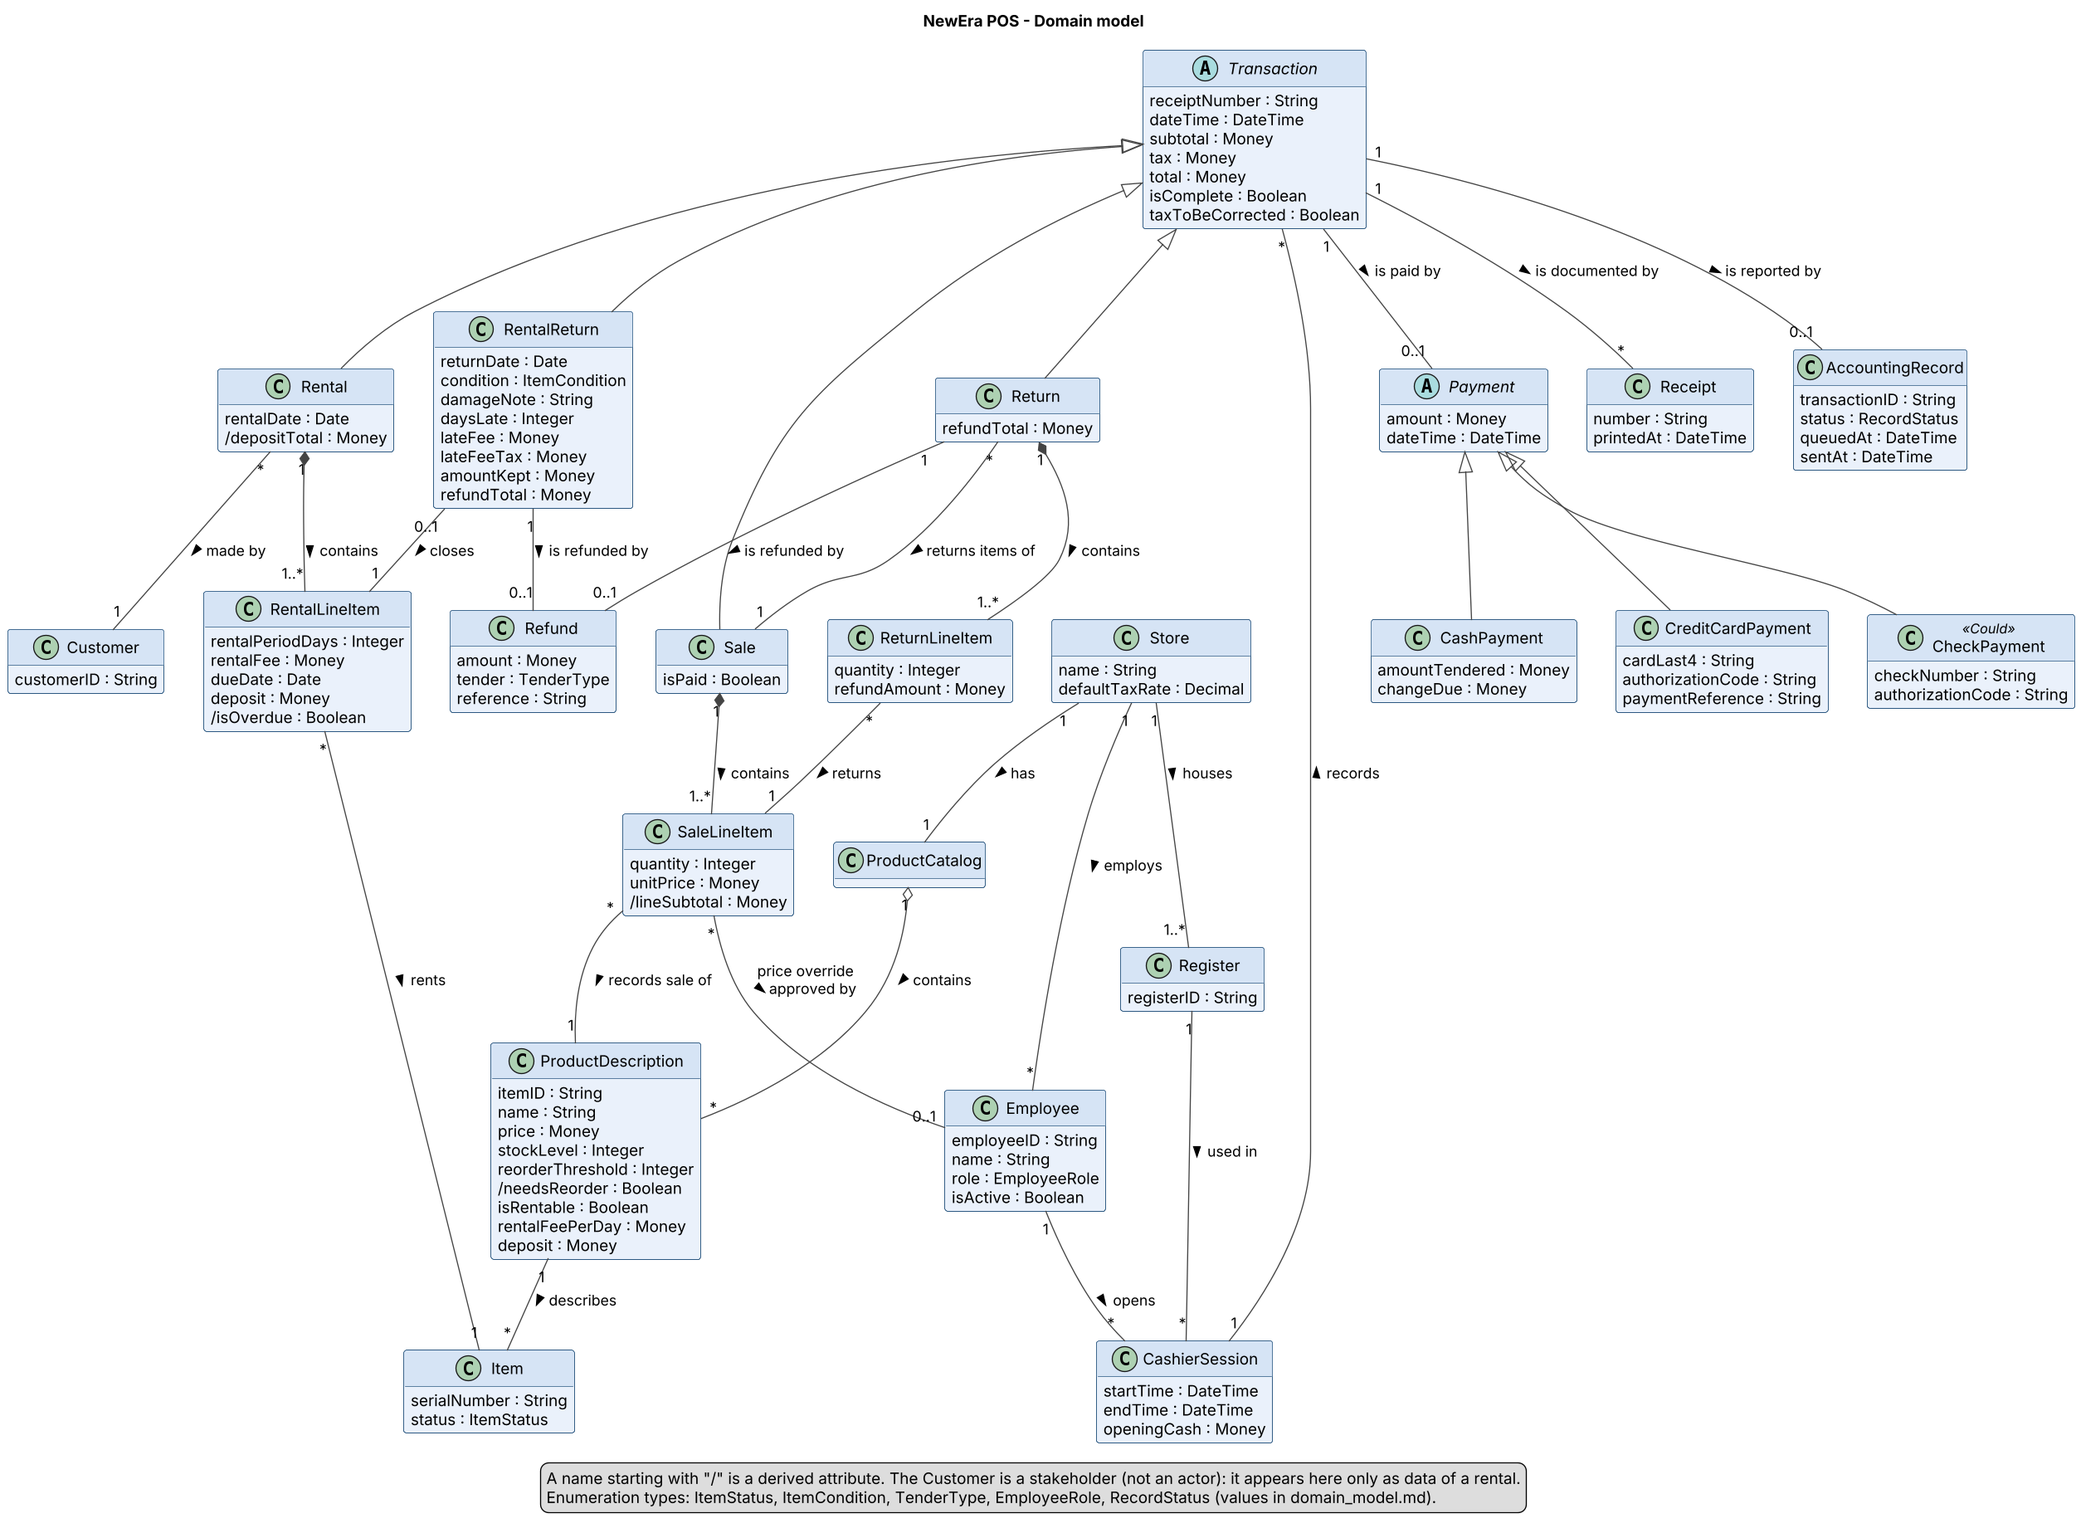
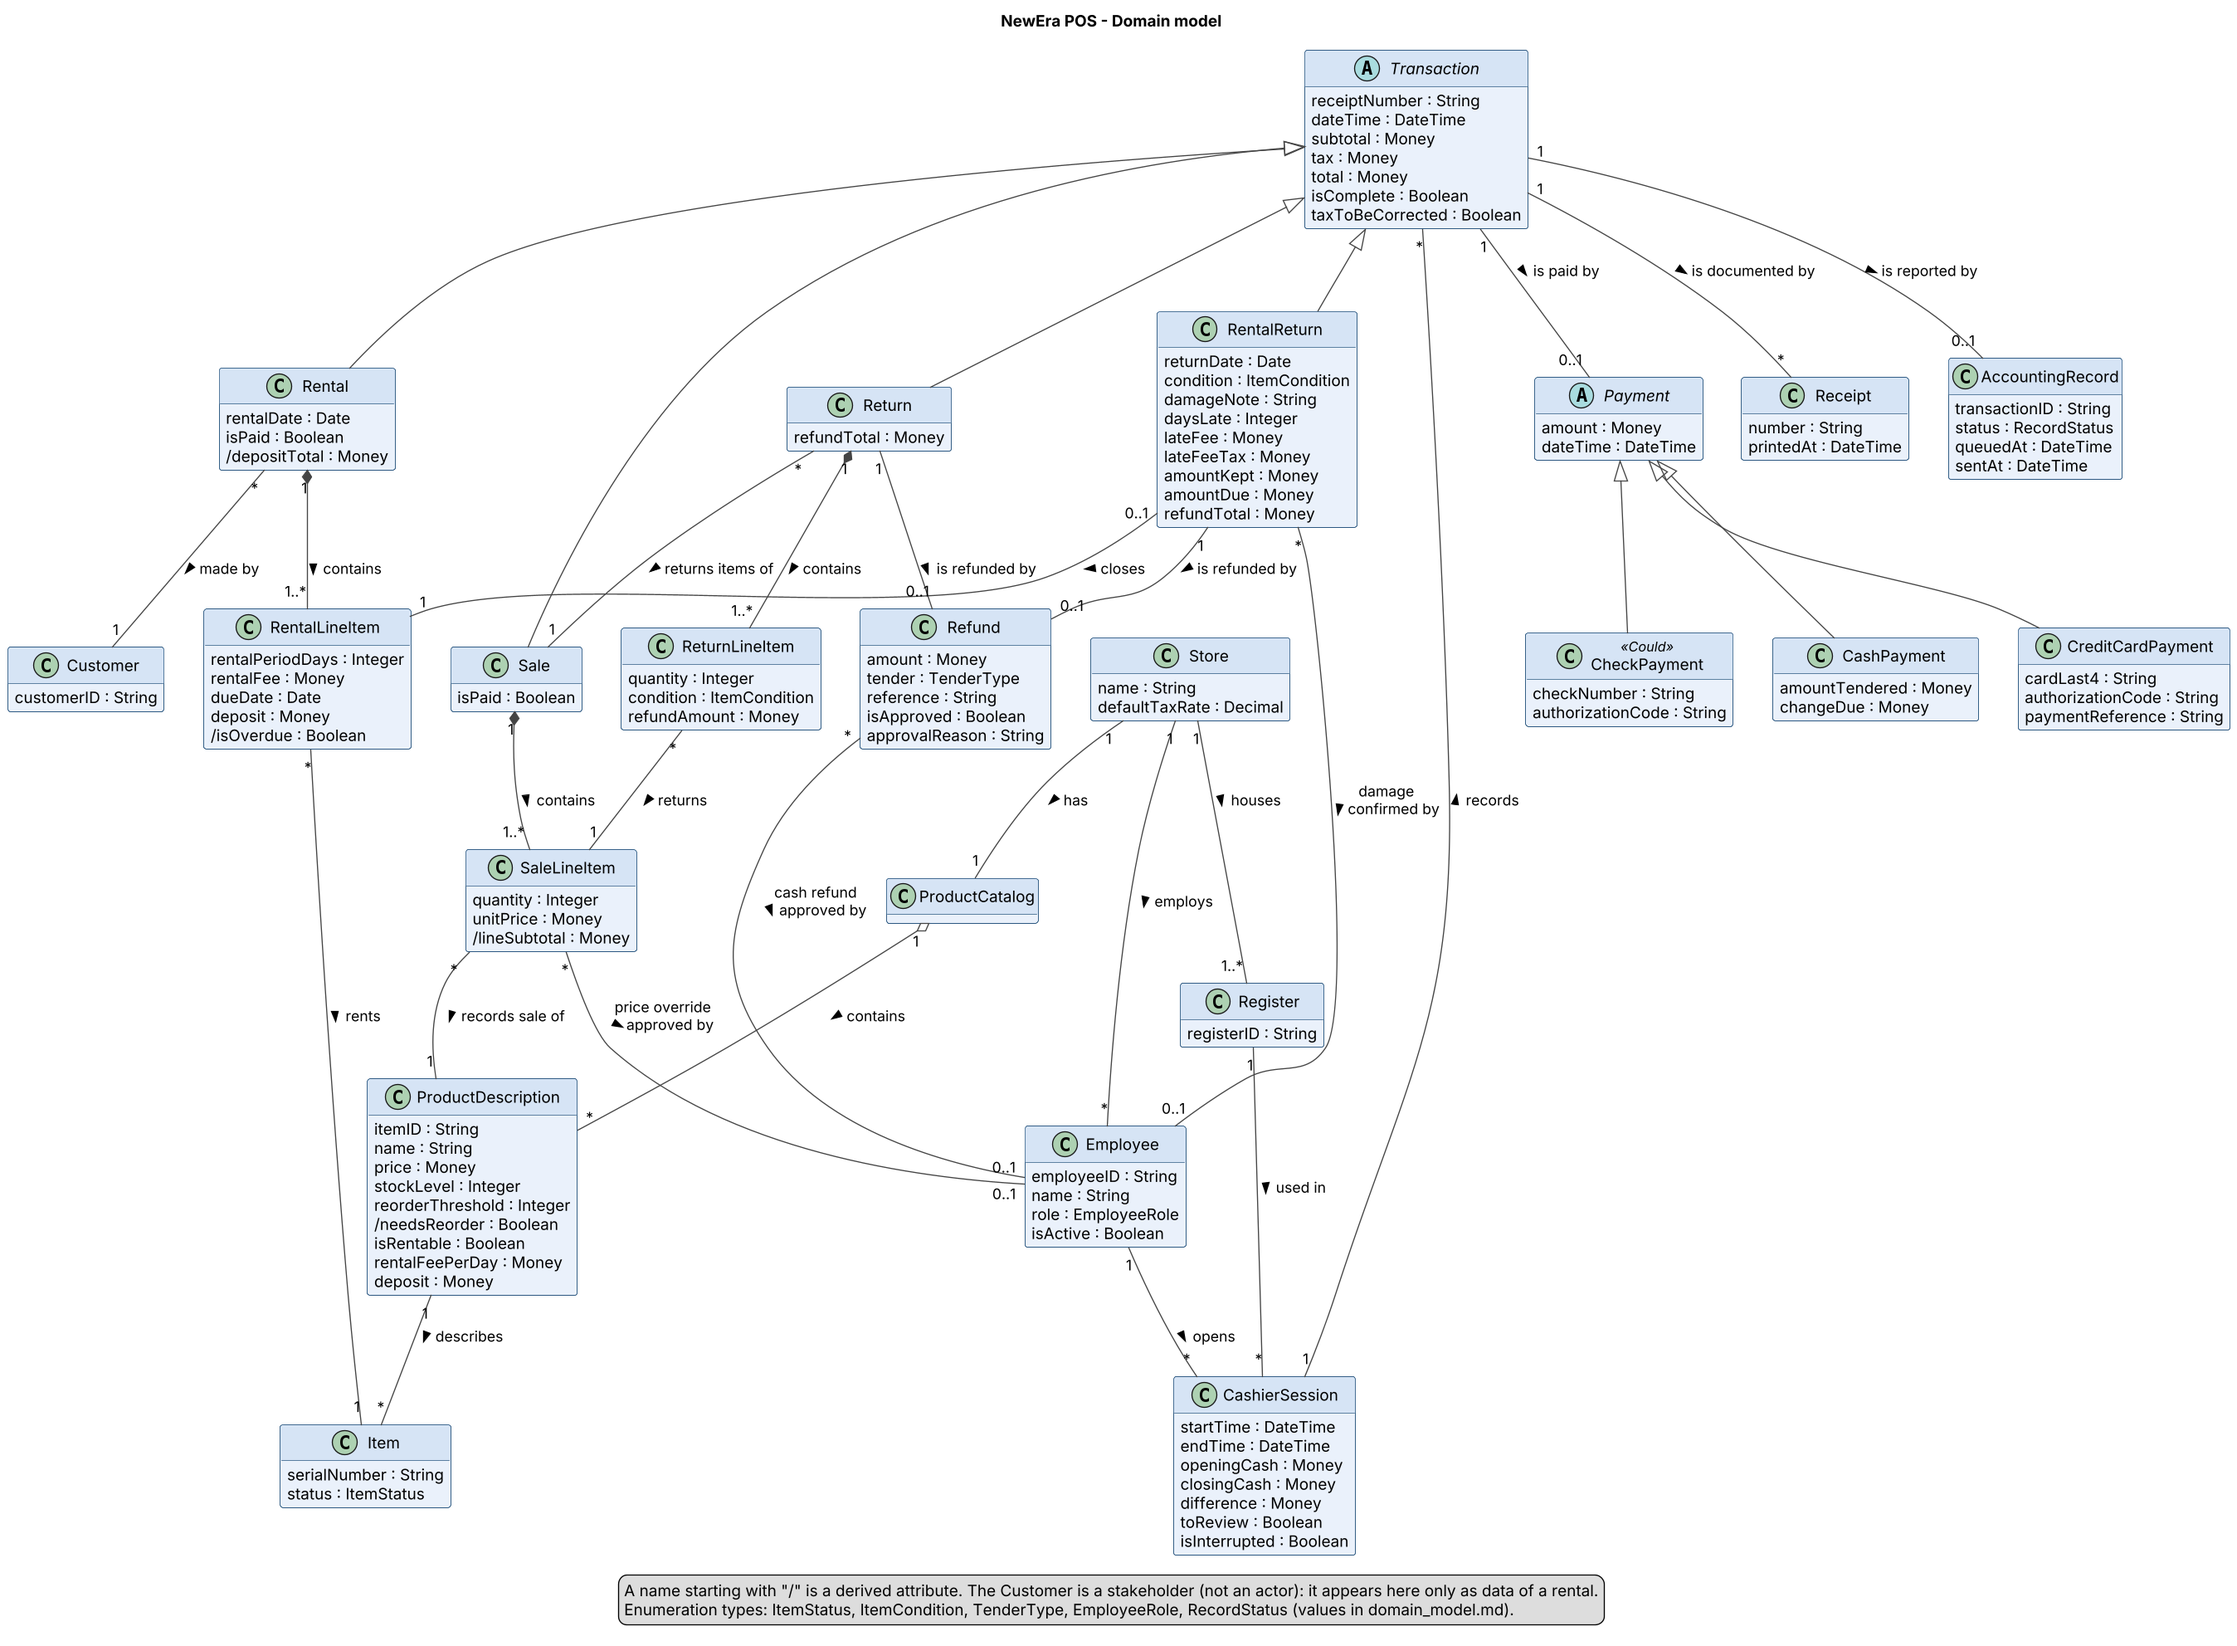
W9 - Domain model v0.5; attributes of the contracts of UC2, UC4 and UC5 added (B2)

diff --git a/docs/design/domain_model.md b/docs/design/domain_model.md
@@ -3,7 +3,7 @@
 | | |
 | --- | --- |
 | **Maintainer** | Borja Nicolás |
-| **Version** | 0.4 (draft for review; one tender for each sale or rental, BR-18) |
+| **Version** | 0.5 (draft for review; names aligned with the contracts of UC2, UC4 and UC5) |
 | **Last updated** | W09 |
 | **Part of** | Increment 2 (Design), input to the SRS section 3.5, the [system sequence diagram](system_sequence_diagrams.md) and the [operation contracts](operation_contracts.md) |
 
@@ -26,7 +26,7 @@ Names follow the glossary. The names used in the [operation contracts](operation
 | **Store** | The store that owns the registers, the catalog and the employees. | `name`, `defaultTaxRate` | BR-02 |
 | **Register** | A physical POS terminal. | `registerID` | UC4 |
 | **Employee** | A person of the HR System. The role decides what he or she may do. A cashier and a store manager are employees with a different `role`. | `employeeID`, `name`, `role`, `isActive` | UC4, BR-04, BR-13 |
-| **CashierSession** | Period in which one employee works at one register; every transaction belongs to a session. | `startTime`, `endTime`, `openingCash` | UC4, BR-13 |
+| **CashierSession** | Period in which one employee works at one register; every transaction belongs to a session. | `startTime`, `endTime`, `openingCash`, `closingCash`, `difference`, `toReview`, `isInterrupted` | UC4, BR-13 |
 | **ProductCatalog** | All product descriptions of the store. | – | glossary |
 | **ProductDescription** | A product type: what the scanned item identifier refers to. It holds the stock level; a rentable product also has its fee per day and deposit. | `itemID`, `name`, `price`, `stockLevel`, `reorderThreshold`, `/needsReorder`, `isRentable`, `rentalFeePerDay`, `deposit` | UC1, BR-03, BR-09, UC3 |
 | **Item** | One physical unit of a rentable product, identified by its serial number. Items that are only sold are not modelled one by one: they are counted by `stockLevel`. | `serialNumber`, `status` | UC3, BR-11 |
@@ -35,12 +35,12 @@ Names follow the glossary. The names used in the [operation contracts](operation
 | **Sale** | The customer buys items (UC1). | `isPaid` | UC1 |
 | **SaleLineItem** | One line of a sale. The price is copied from the product description when the item is entered, so a later price change does not change a completed sale. | `quantity`, `unitPrice`, `/lineSubtotal` | BR-03, BR-04 |
 | **Return** | The customer brings back items of an earlier sale (UC2). | `refundTotal` | UC2, BR-07, BR-08 |
-| **ReturnLineItem** | One returned line of the original sale. | `quantity`, `refundAmount` | UC2 |
-| **Rental** | The customer takes one or more items for a period (UC3). | `rentalDate`, `/depositTotal` | UC3, BR-10 |
+| **ReturnLineItem** | One returned line of the original sale. | `quantity`, `condition`, `refundAmount` | UC2 |
+| **Rental** | The customer takes one or more items for a period (UC3). | `rentalDate`, `isPaid`, `/depositTotal` | UC3, BR-10 |
 | **RentalLineItem** | One rented item with its period, fee, due date and deposit. | `rentalPeriodDays`, `rentalFee`, `dueDate`, `deposit`, `/isOverdue` | UC3, BR-12 |
-| **RentalReturn** | The item of one rental line comes back (UC5), with its condition, the late fee and the amount kept from the deposit. | `returnDate`, `condition`, `damageNote`, `daysLate`, `lateFee`, `lateFeeTax`, `amountKept`, `refundTotal` | UC5, BR-10, BR-11 |
+| **RentalReturn** | The item of one rental line comes back (UC5), with its condition, the late fee and the amount kept from the deposit. | `returnDate`, `condition`, `damageNote`, `daysLate`, `lateFee`, `lateFeeTax`, `amountKept`, `amountDue`, `refundTotal` | UC5, BR-10, BR-11 |
 | **Payment** (abstract) | Money received in one tender: **CashPayment** (`amountTendered`, `changeDue`, BR-06), **CreditCardPayment** (last 4 digits, authorization code and payment reference, BR-05, DR-19) and **CheckPayment** (*Could*, authorized by the Payment Service). | `amount`, `dateTime` | UC1, UC3, BR-05, BR-06 |
-| **Refund** | Money paid back for a return or a rental return, in the tender of the original payment. | `amount`, `tender`, `reference` | BR-08, UC5 |
+| **Refund** | Money paid back for a return or a rental return, in the tender of the original payment. | `amount`, `tender`, `reference`, `isApproved`, `approvalReason` | BR-08, UC5 |
 | **Receipt** | Printed record of a transaction; it can be printed again. | `number`, `printedAt` | FR-16, FR-17 |
 | **AccountingRecord** | The record of a completed transaction sent, or queued to be sent, to the Accounting System. The transaction ID lets the Accounting System ignore a record that arrives twice. | `transactionID`, `status`, `queuedAt`, `sentAt` | BR-14, IR-06, IR-07 |
 
@@ -70,12 +70,15 @@ The four external systems (Payment Service, Tax Calculator, Accounting System, H
 | RentalReturn – RentalLineItem | 0..1 – 1 | A rented line is closed by at most one return. |
 | Transaction – Payment | 1 – 0..1 | One tender for each sale or rental (BR-18, decided in W09); until it is paid, the transaction has no payment. A return has no payment but a refund. A rental return has one only when the customer pays the amount still due (UC5 ext. 7b). |
 | Return / RentalReturn – Refund | 1 – 0..1 | Not every rental return has a refund (damaged item). |
+| RentalReturn – Employee | * – 0..1 | The store manager who confirmed the damage (FR-52, UC5 6a). |
+| Refund – Employee | * – 0..1 | The store manager who approved a cash refund instead of a card or check refund (FR-25, UC2 9b2a, 9c). |
 | Transaction – Receipt | 1 – * | One receipt, reprints possible (FR-17). |
 | Transaction – AccountingRecord | 1 – 0..1 | Created when the transaction is completed (BR-14). |
 
 ## 5. Alignment with the operation contracts and the SRS
 
 - **Contracts of UC1** (Josué): every class and attribute they use exists with the same name: `Sale.isComplete`, `subtotal`, `tax`, `total` (inherited from `Transaction`), `Sale.isPaid`, `SaleLineItem.quantity`, `Payment.amount`, `ProductDescription.stockLevel`. `makePayment(amount, tenderType)` creates a `CashPayment`, `CreditCardPayment` or `CheckPayment` according to the tender type; I propose the contract uses `TenderType` instead of `String`.
+- **Contracts of UC2, UC4 and UC5** (version 0.5, W09): the attributes that Contracts 7, 9, 16 to 28 use and the model did not have are now in the model: `CashierSession.closingCash`, `difference`, `toReview`, `isInterrupted`; `Rental.isPaid`; `RentalReturn.amountDue`; `ReturnLineItem.condition`; `Refund.isApproved` and `approvalReason`. The store manager who confirms a damage or approves a cash refund is an association with `Employee` (as for the price override), so the contracts' `confirmedByID` and `approvedByID` are the `employeeID` at the end of that association. Two names still differ and are proposed to the owner of the contracts: Contracts 26 to 28 write `RentalReturn.refund`, the model has `refundTotal` (as `Return.refundTotal`); and the log entry of the drawer opening (IR-14, Contracts 19 and 20) is an entry of the `EventLog` and is not a domain concept, so it is not modelled here.
 - **SRS**: the glossary terms *customer ID*, *item list*, *rental receipt* and *item condition* are missing (see review of the SRS); here they are `Customer.customerID`, the set of `Item`, `Receipt` of a rental and `RentalReturn.condition`. The SRS section 3.5 is derived from this model.
 
 ## 6. Decisions and open questions
